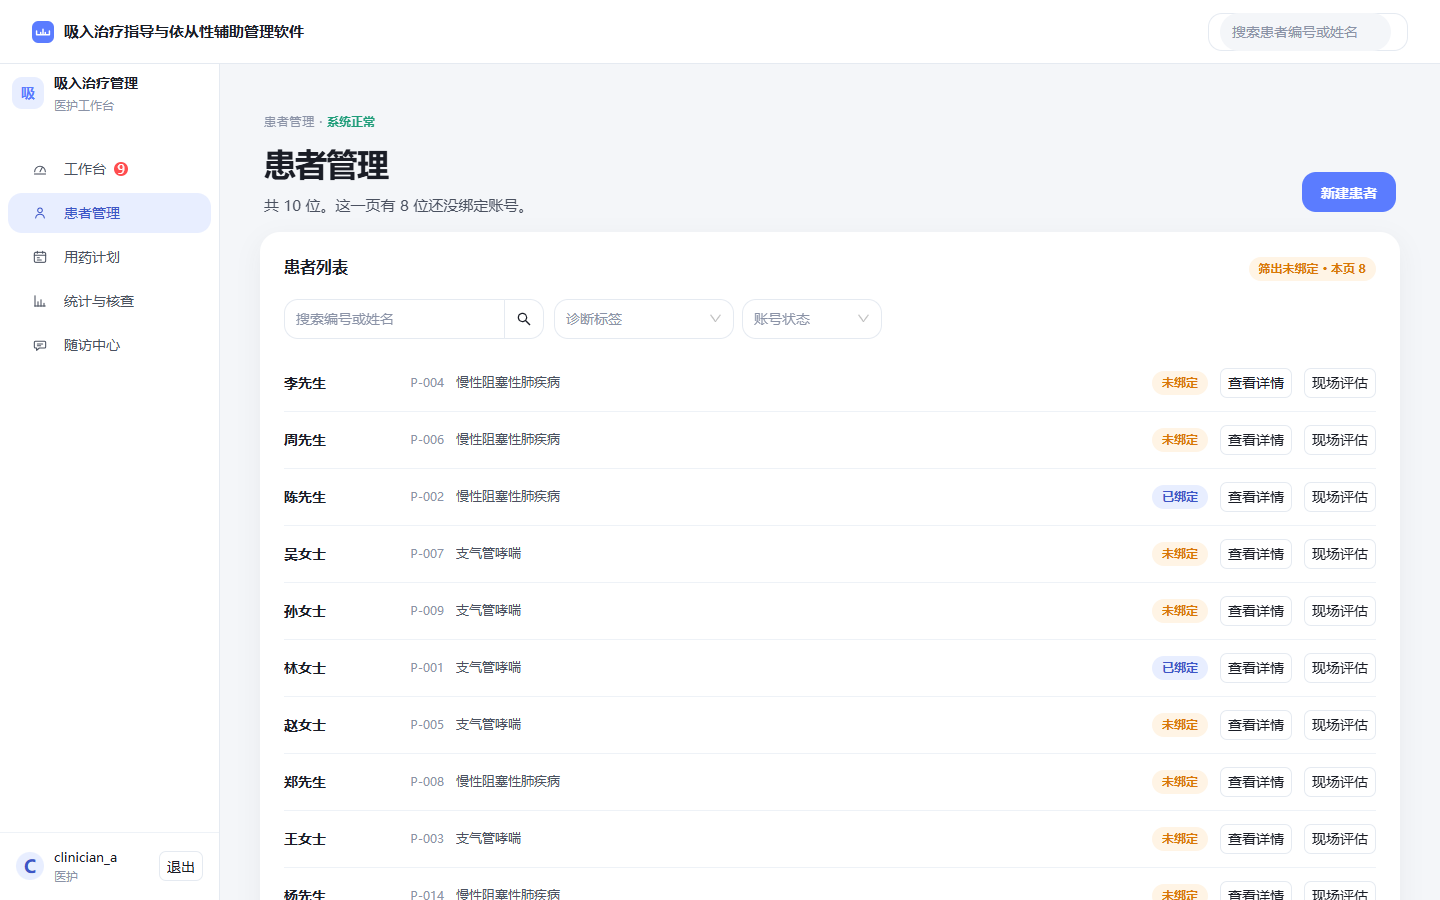
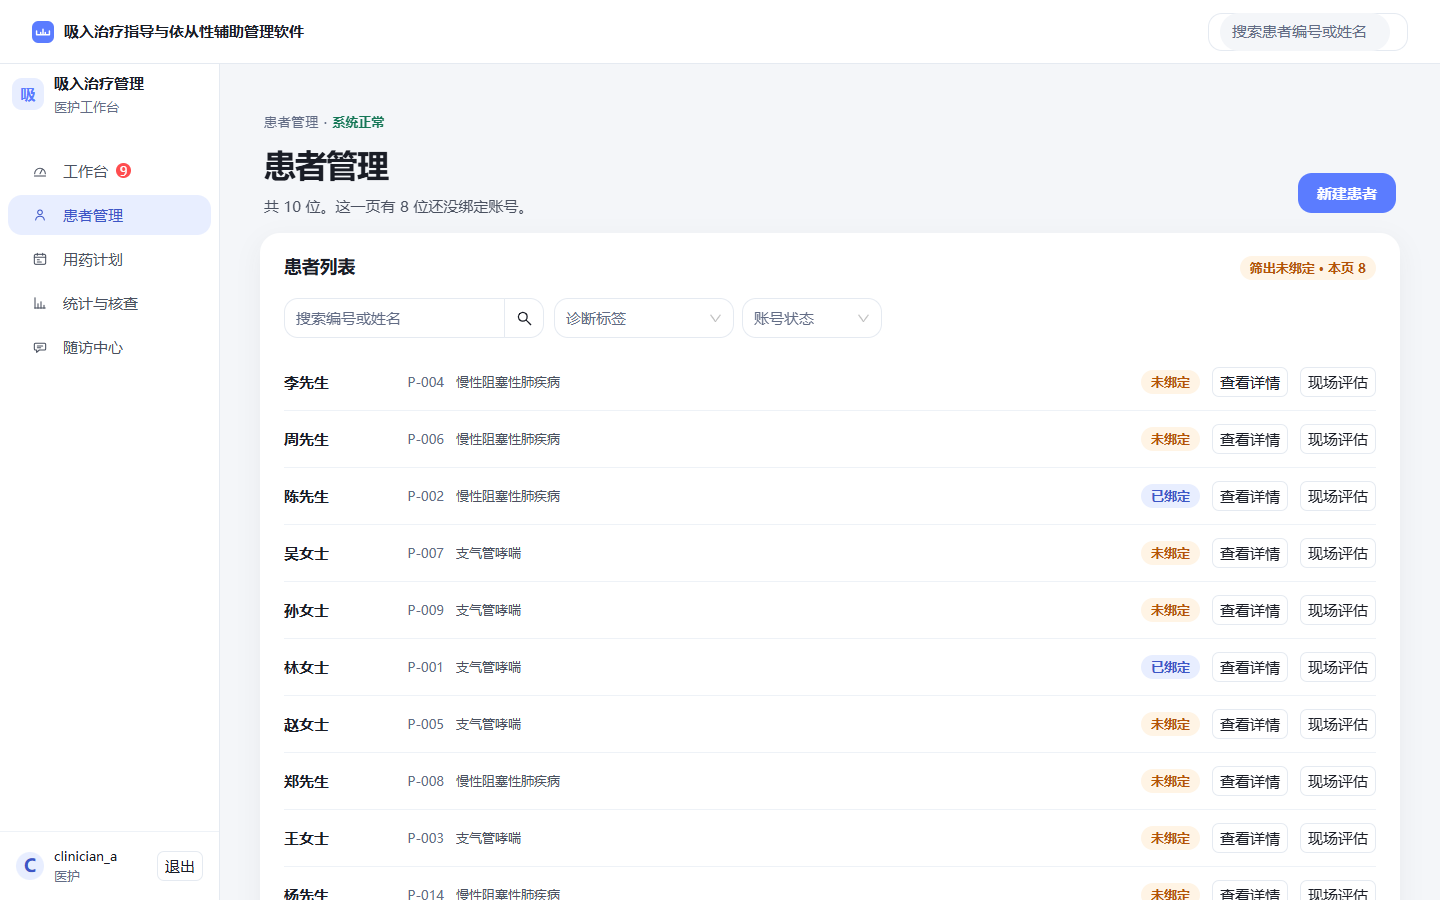
docs: 画廊 2026-11-08 全站重拍（含字号阶梯+刻度+distill 全部最新改动）

diff --git a/docs/evidence/clinic-comfort-full-ui/index.html b/docs/evidence/clinic-comfort-full-ui/index.html
@@ -1,11 +1,11 @@
-<!doctype html>
+<!doctype html>
 <html lang="zh-CN">
 <head>
 <meta charset="utf-8" />
 <meta name="viewport" content="width=device-width, initial-scale=1" />
-<title>Clinic Comfort 全站截图 · 2026-11-04（当前分支实拍）</title>
+<title>Clinic Comfort 全站截图 · 2026-11-08（当前分支实拍）</title>
 <!--
-  2026-11-04 由 capture_gallery.py 对当前 preview/clinic-comfort-full 分支实拍：
+  2026-11-08 由 capture_gallery.py 对当前 preview/clinic-comfort-full 分支实拍：
   含工作台两栏等高修复。15 屏中图7（患者报告）与图6 同页不同页签，选页用 06 即可。
 -->
 <style>
@@ -124,9 +124,9 @@
 <body>
 <header>
   <h1>吸入治疗指导与依从性辅助管理软件 · Clinic Comfort 全站截图</h1>
-  <p class="sub">当前 preview/clinic-comfort-full 分支实拍（含工作台等高修复），共 14 张。点卡片看原图，选两张要优化的屏。</p>
+  <p class="sub">当前 preview/clinic-comfort-full 分支实拍（含字号阶梯重排、刻度图例移位/放宽/下移、distill 三轮减法），共 14 张。点卡片看原图，选两张要优化的屏。</p>
   <div class="meta">
-    <span>2026-11-04</span>
+    <span>2026-11-08</span>
     <span>1440 × 900 视口</span>
     <span>clinician_a / admin · 密码 123</span>
     <span>除弹窗外均为整页长图</span>
@@ -149,7 +149,7 @@
     <div class="grid">
       <a class="shot" href="02-workbench.png" target="_blank">
         <div class="thumb"><img src="02-workbench.png" alt="工作台" loading="lazy" /><span class="zoom">查看原图</span></div>
-        <div class="cap"><b>02 · 工作台</b><span>瘦摘要 + 近7日团队刻度/需关注 + 待核查队列</span></div>
+        <div class="cap"><b>02 · 工作台</b><span>刻度|需关注 + 待核查队列；字号 32/18/15/13</span></div>
       </a>
       <a class="shot" href="03-patients.png" target="_blank">
         <div class="thumb"><img src="03-patients.png" alt="患者管理" loading="lazy" /><span class="zoom">查看原图</span></div>
@@ -216,7 +216,7 @@
 </main>
 
 <footer>
-  截图目录：docs/evidence/clinic-comfort-full-ui · 2026-11-04 由 capture_gallery.py 实拍当前分支 · 点击任意卡片在新标签页查看原始长图。
+  截图目录：docs/evidence/clinic-comfort-full-ui · 2026-11-08 由 capture_gallery.py 实拍当前分支 · 点击任意卡片在新标签页查看原始长图。
 </footer>
 </body>
 </html>
